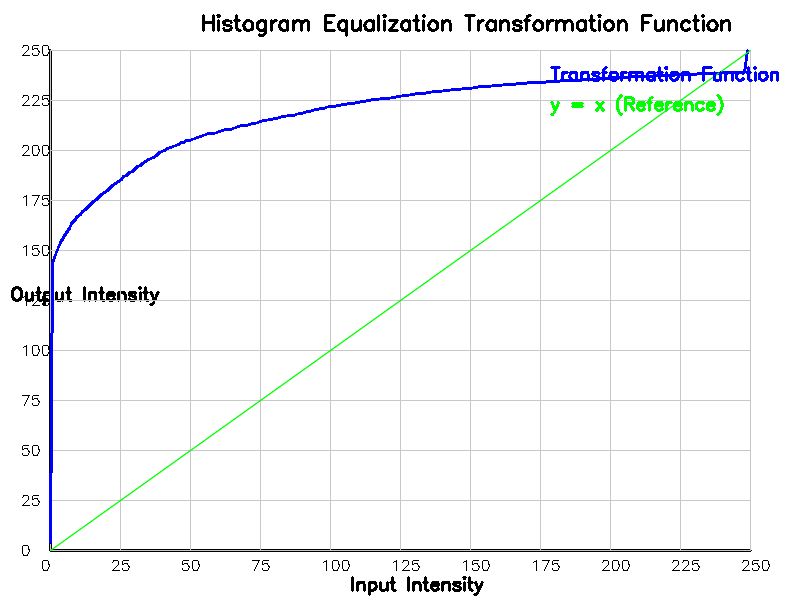
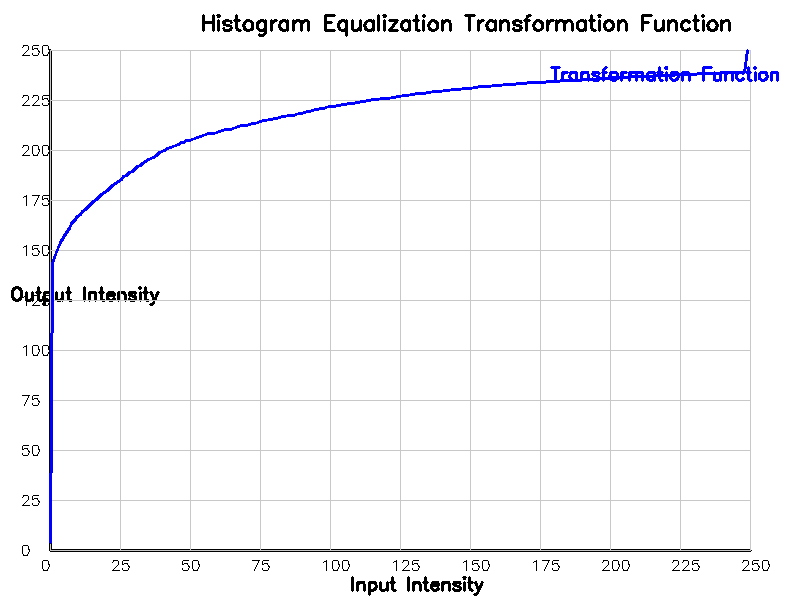
1

diff --git a/main.cpp b/main.cpp
@@ -136,12 +136,12 @@ void plot_transformation_function(const Mat& src_img, const string& filename) {
     }
 
     // Draw reference line
-    Point p1(margin, plot_height - margin);
-    Point p2(plot_width - margin, margin);
-    line(plot, p1, p2, Scalar(0, 255, 0), 1, LINE_AA);
+    // Point p1(margin, plot_height - margin);
+    // Point p2(plot_width - margin, margin);
+    // line(plot, p1, p2, Scalar(0, 255, 0), 1, LINE_AA);
 
     putText(plot, "Transformation Function", Point(plot_width - 250, margin + 30), FONT_HERSHEY_SIMPLEX, 0.6, Scalar(255, 0, 0), 2);
-    putText(plot, "y = x (Reference)", Point(plot_width - 250, margin + 60), FONT_HERSHEY_SIMPLEX, 0.6, Scalar(0, 255, 0), 2);
+    // putText(plot, "y = x (Reference)", Point(plot_width - 250, margin + 60), FONT_HERSHEY_SIMPLEX, 0.6, Scalar(0, 255, 0), 2);
 
     putText(plot, "Histogram Equalization Transformation Function", Point(plot_width/2 - 200, 30), FONT_HERSHEY_SIMPLEX, 0.7, Scalar(0, 0, 0), 2);
 
@@ -205,20 +205,20 @@ int main() {
     imwrite("../img/eq_img.png", equalized_img);
 
     // log transform
-    // Mat log_img_three = log_transform_enhance(src_img, 3);
-    // imwrite("../img/log_img_3.tif", log_img_three);
-    // Mat log_img_two = log_transform_enhance(src_img, 2);
-    // imwrite("../img/log_img_2.tif", log_img_two);
-    // Mat log_img_two_half = log_transform_enhance(src_img, 2.5);
-    // imwrite("../img/log_img_25_b.png", log_img_two_half);
+    Mat log_img_three = log_transform_enhance(src_img, 3);
+    imwrite("../img/log_img_3.png", log_img_three);
+    Mat log_img_two = log_transform_enhance(src_img, 2);
+    imwrite("../img/log_img_2.png", log_img_two);
+    Mat log_img_two_half = log_transform_enhance(src_img, 2.5);
+    imwrite("../img/log_img_25_b.png", log_img_two_half);
 
     // power transform
-    // Mat power_img_three = power_law_enhance(src_img, 2, 0.8);
-    // imwrite("../img/power_img_208_b.png", power_img_three);
-    // Mat power_img_two = power_law_enhance(src_img, 2, 0.9);
-    // imwrite("../img/power_img_209.tif", power_img_two);
-    // Mat power_img_two_half = power_law_enhance(src_img, 2, 0.7);
-    // imwrite("../img/power_img_207.tif", power_img_two_half);
+    Mat power_img_three = power_law_enhance(src_img, 2, 0.8);
+    imwrite("../img/power_img_208_b.png", power_img_three);
+    Mat power_img_two = power_law_enhance(src_img, 2, 0.9);
+    imwrite("../img/power_img_209.png", power_img_two);
+    Mat power_img_two_half = power_law_enhance(src_img, 2, 0.7);
+    imwrite("../img/power_img_207.png", power_img_two_half);
 
     waitKey(0);
 
